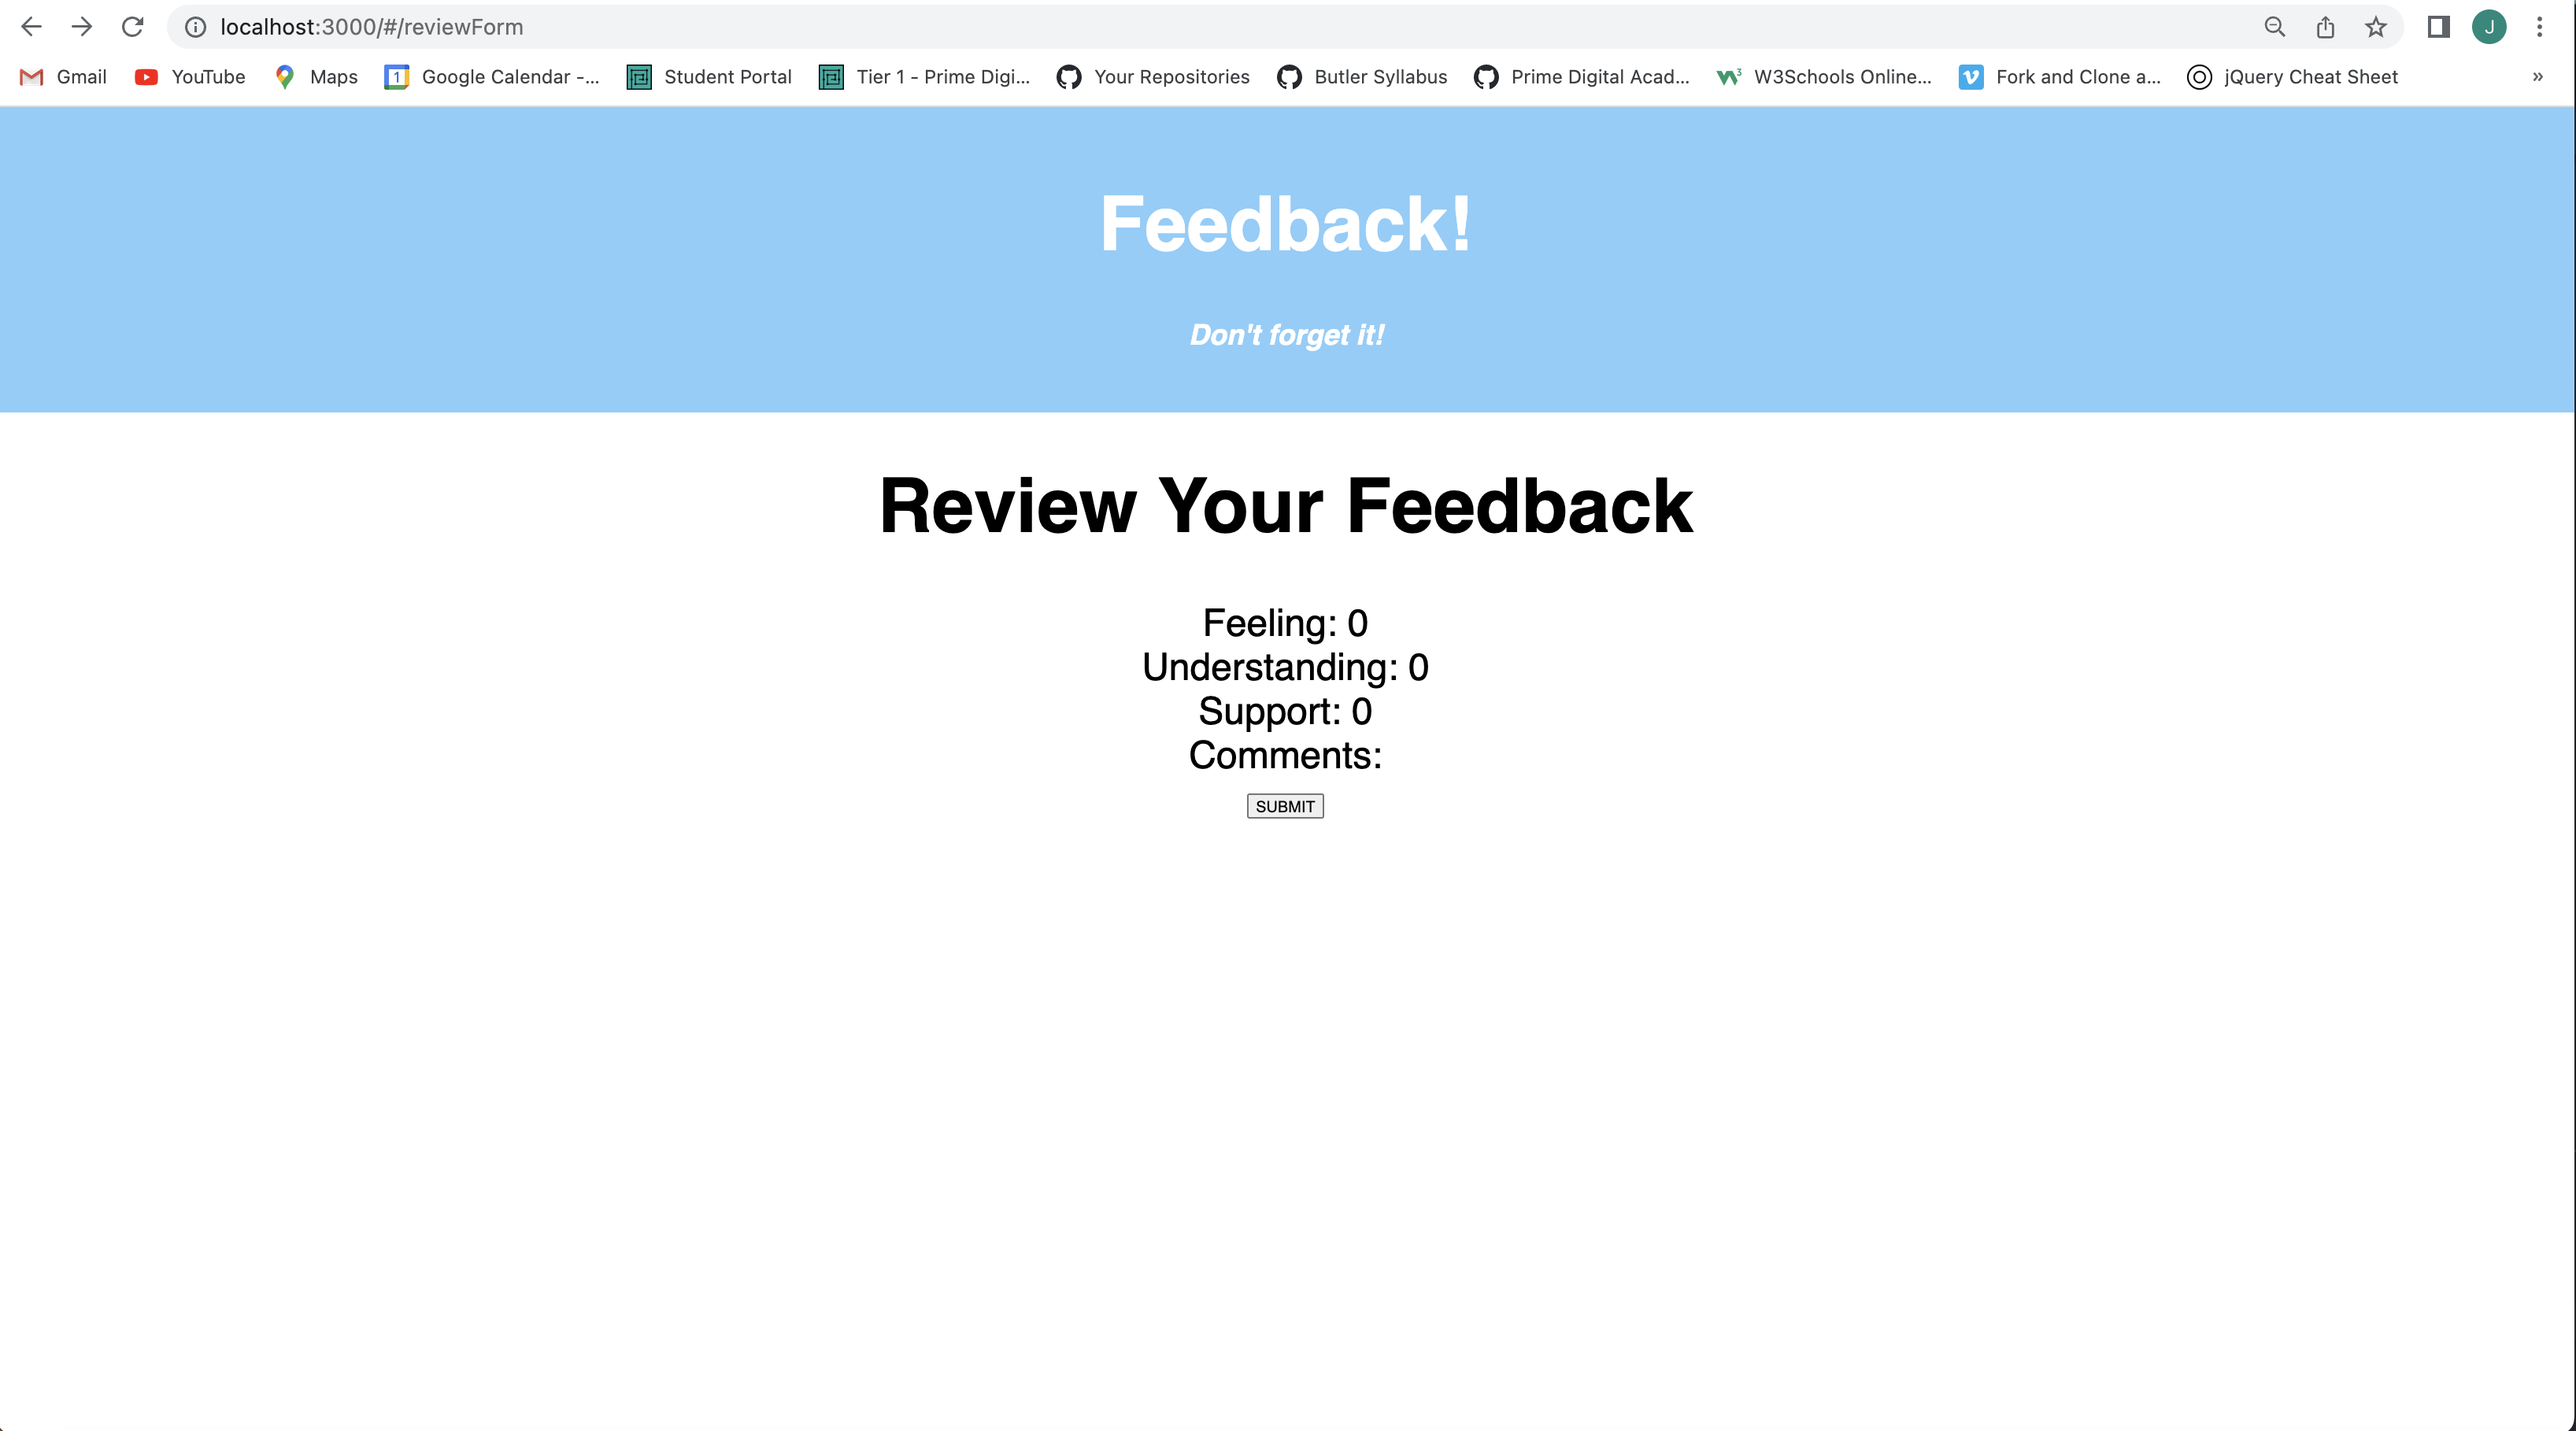
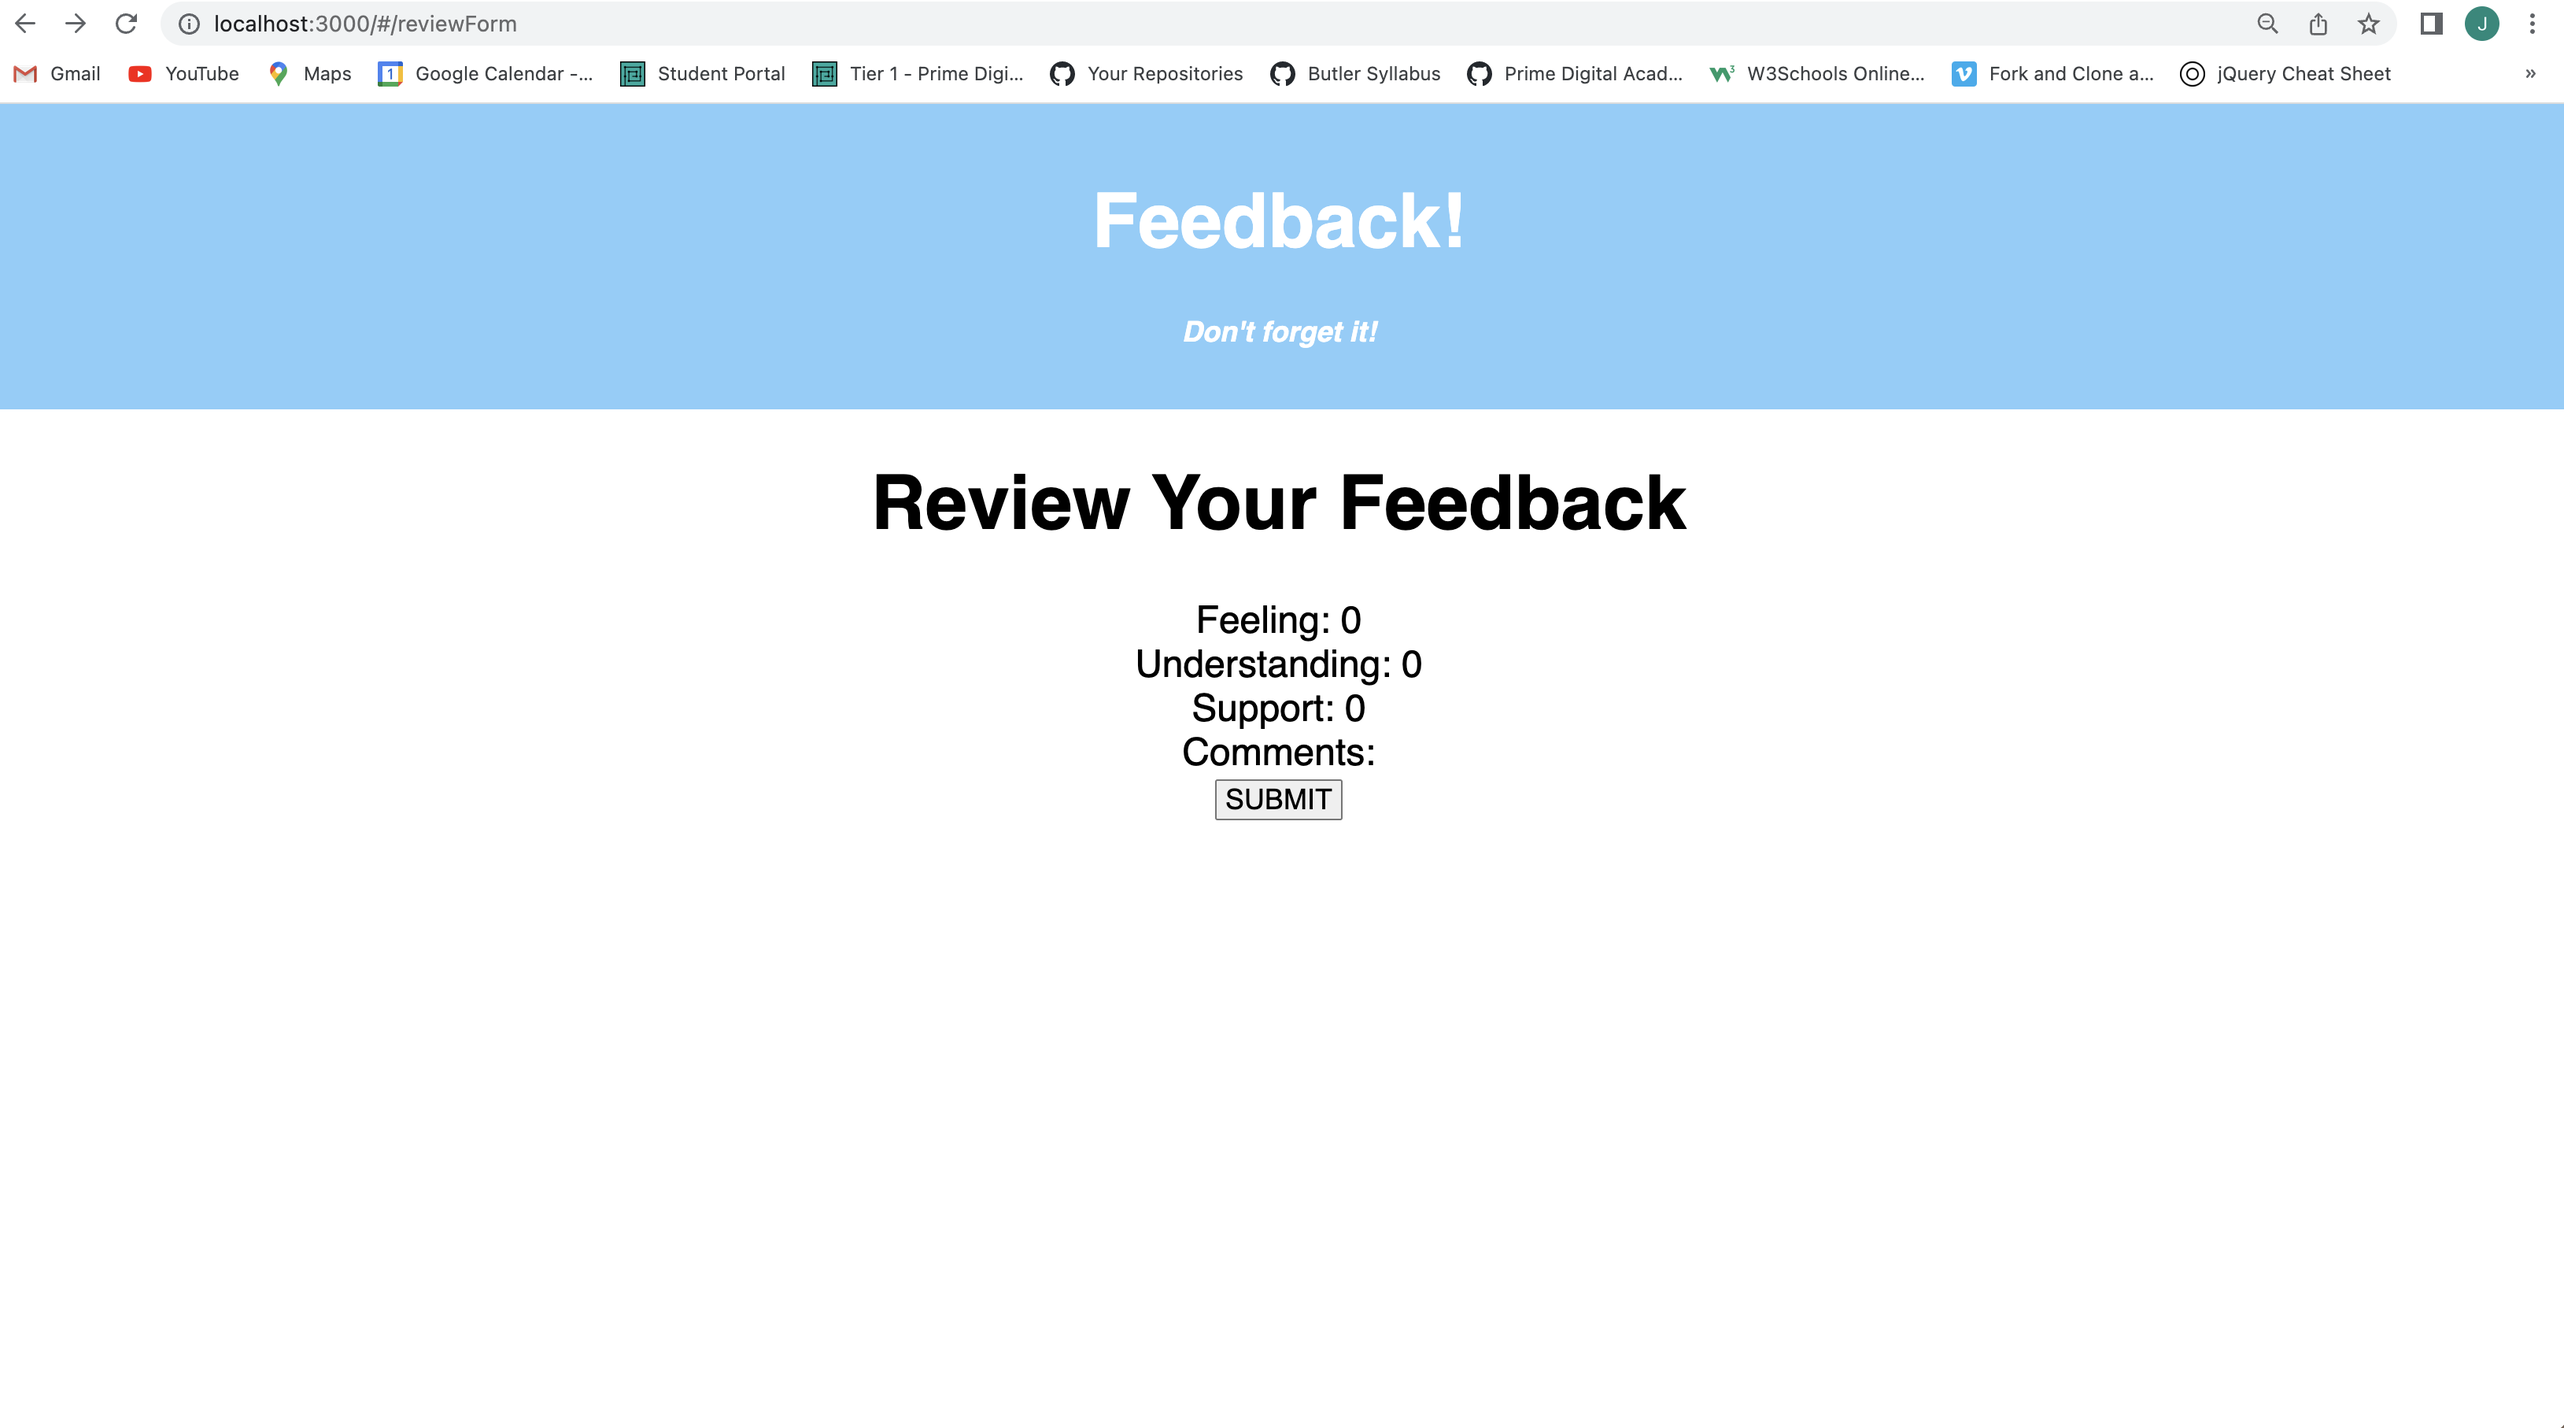
added size class to review form button, updated screenshot5.png

diff --git a/src/components/ReviewForm/ReviewForm.jsx b/src/components/ReviewForm/ReviewForm.jsx
@@ -57,7 +57,7 @@ function ReviewForm() {
                 <div>Understanding: {understandingForm}</div>
                 <div>Support: {supportForm}</div>
                 <div>Comments: {commentsForm}</div>
-                <button onClick={handleSubmit}>SUBMIT</button>
+                <button className="size" onClick={handleSubmit}>SUBMIT</button>
             </div>
         </>
     )
